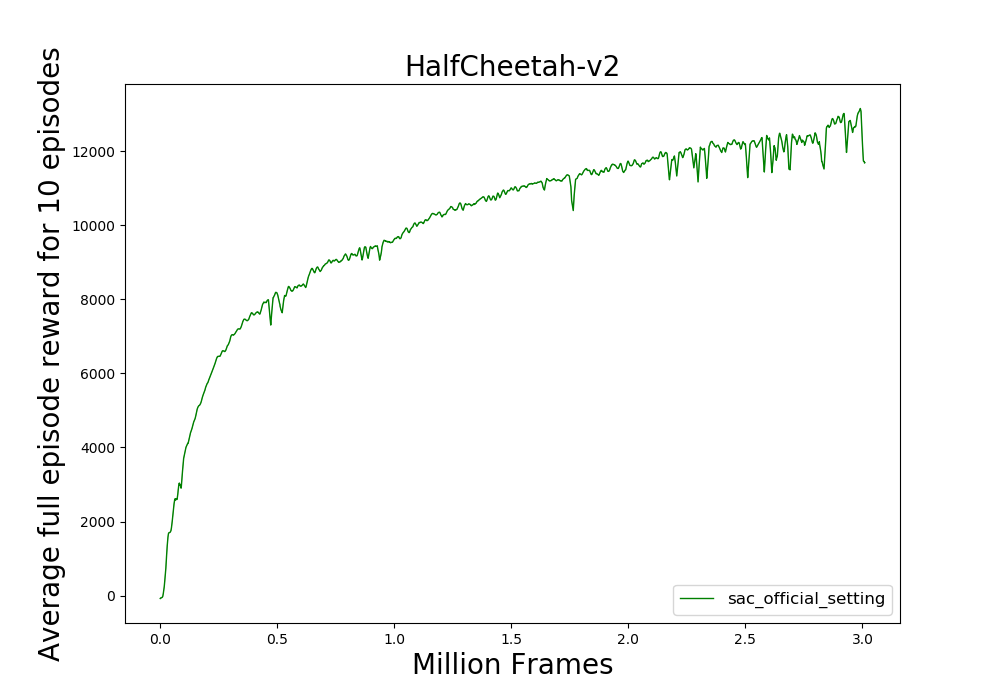
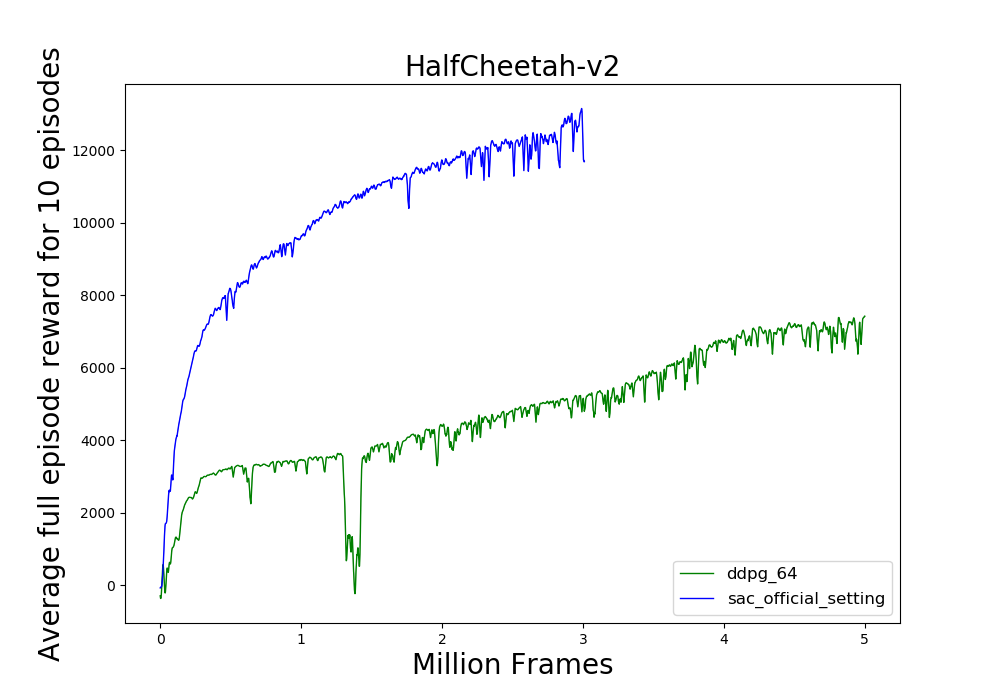
add ddpg result in README & update fig

diff --git a/README.md b/README.md
@@ -6,10 +6,12 @@ Environments with continuous action space are supported.
 
 ## Currently contains:
 * SAC
-![HalfCheetah-v2 SAC](./fig/HalfCheetah-v2.png "HalfCheetah-v2")
+* DDPG
+
+![HalfCheetah-v2 SAC DDPG](./fig/HalfCheetah-v2.png "HalfCheetah-v2")
+
 ## TODO:
 1. Add More Algorithm
-* DDPG
 * DQN ( all kinds of )
 
 2. 3-Dimension input support
